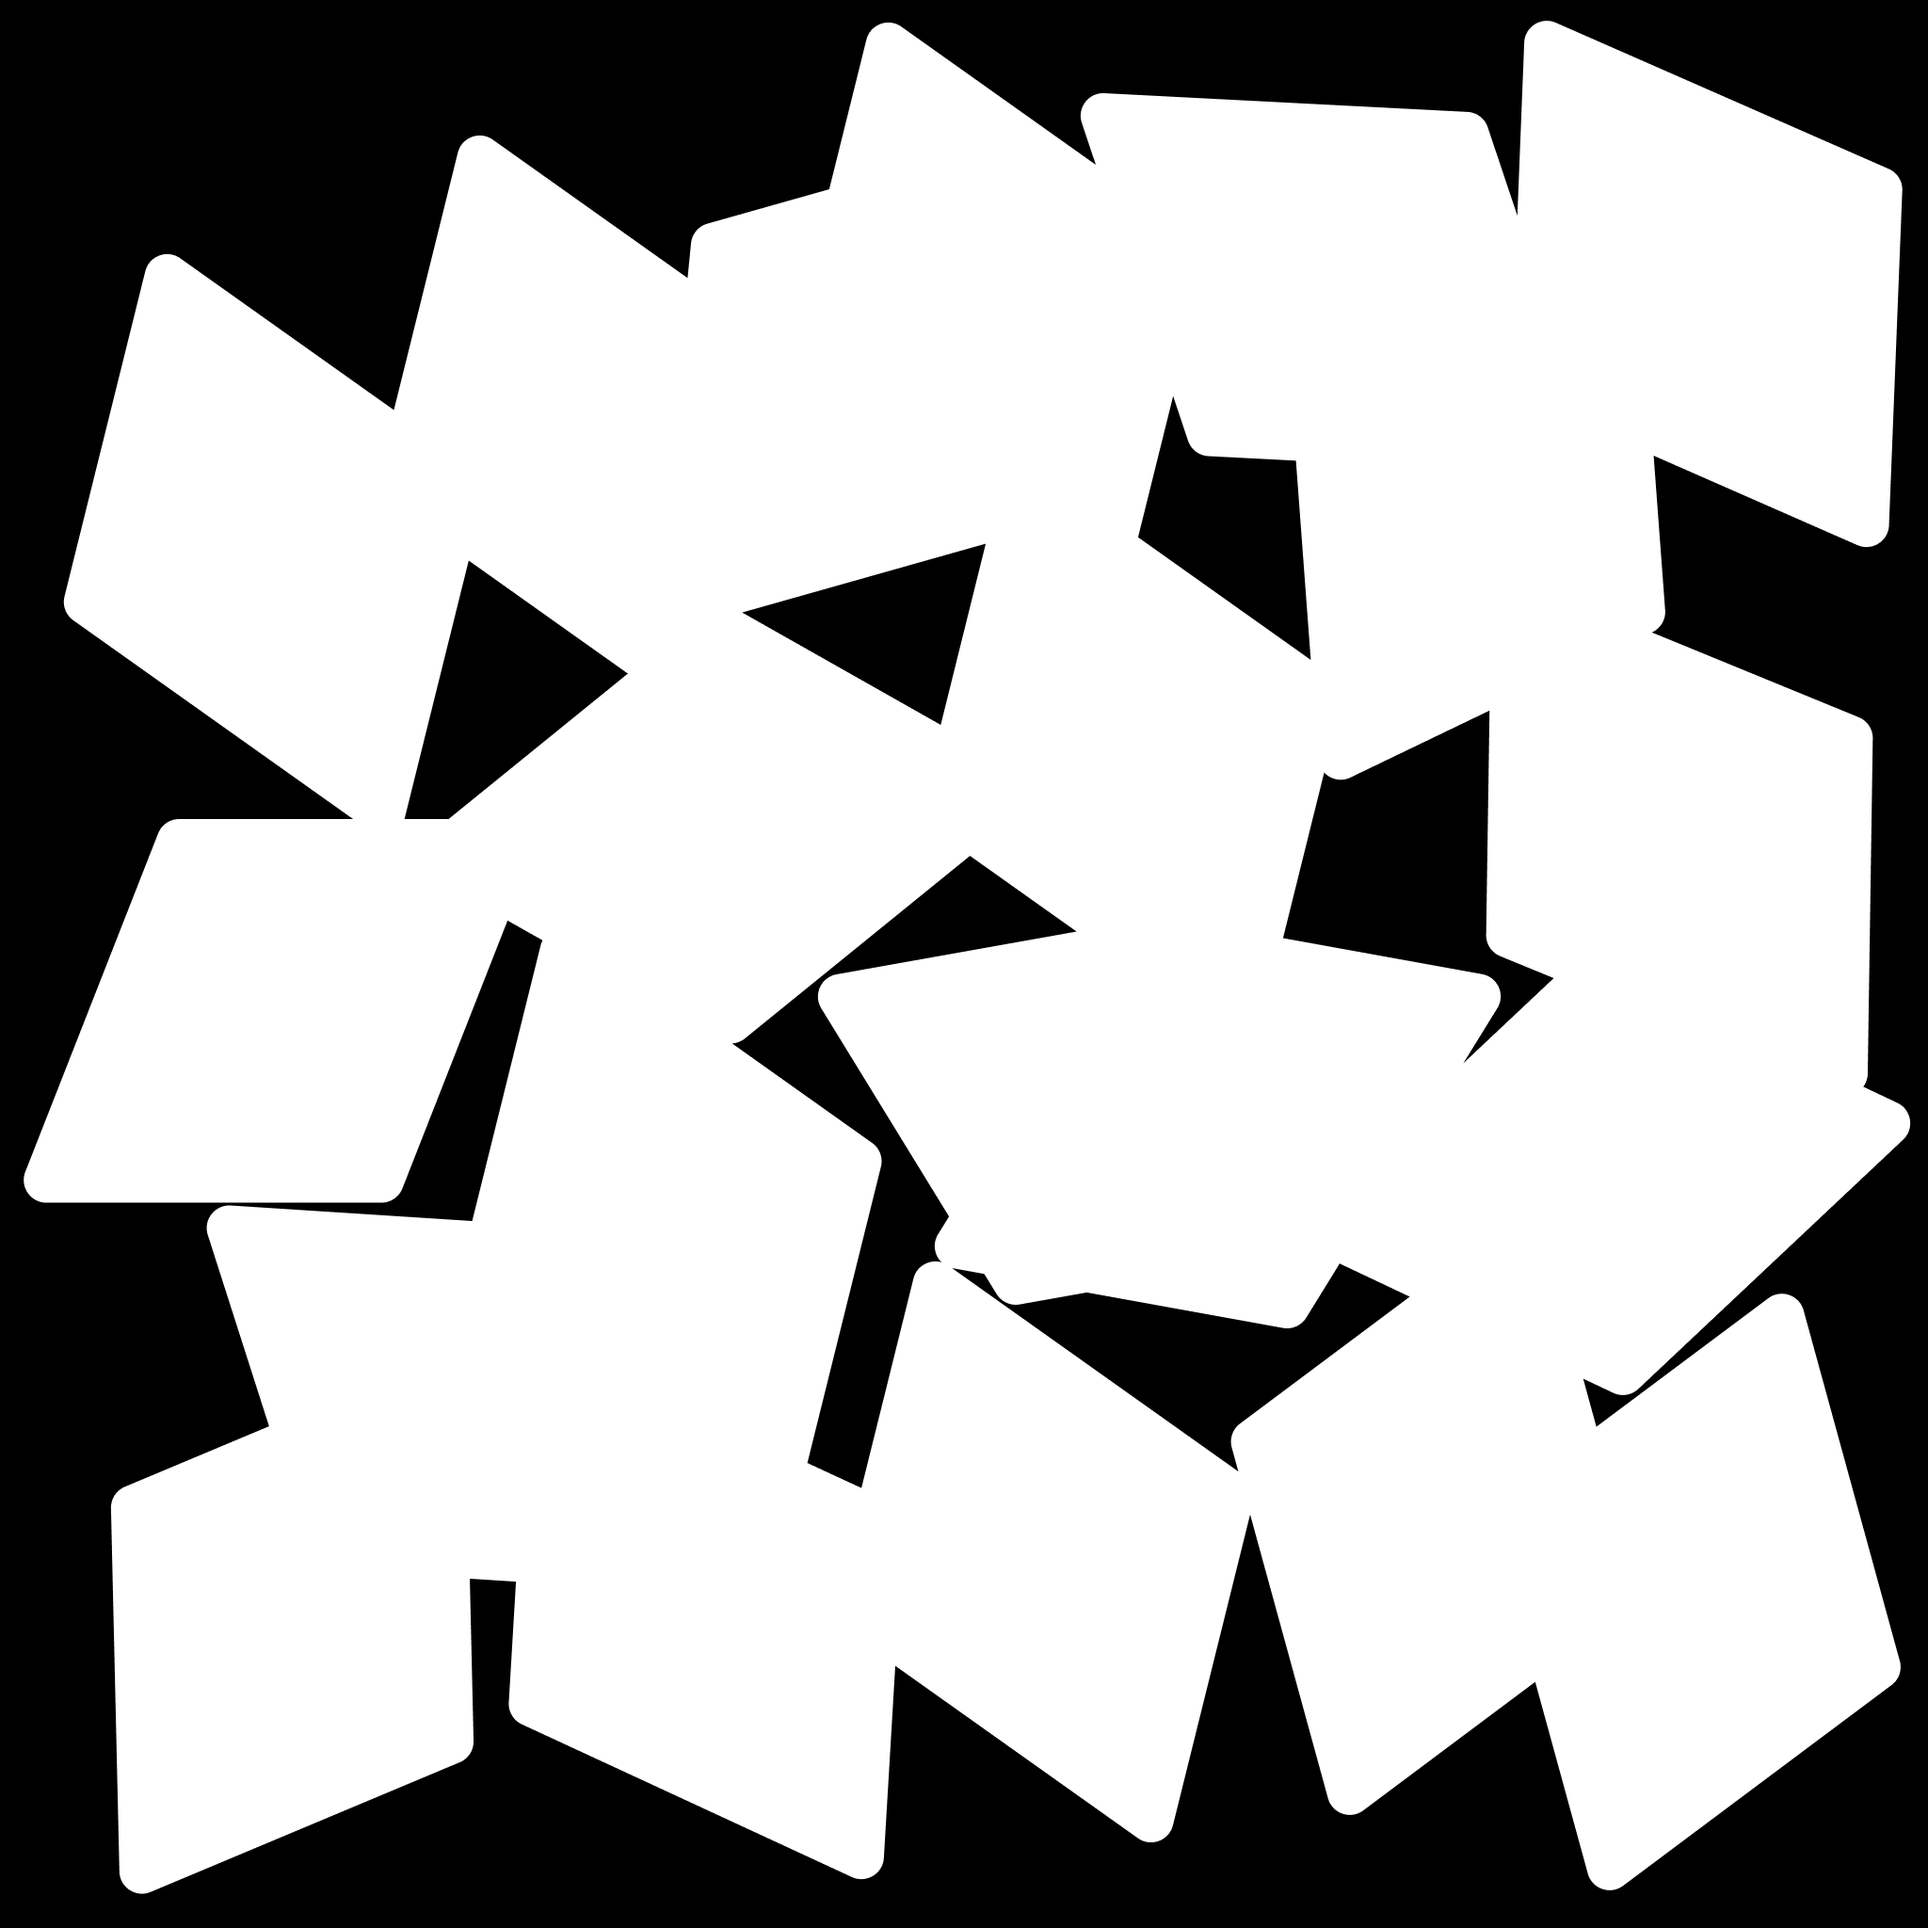
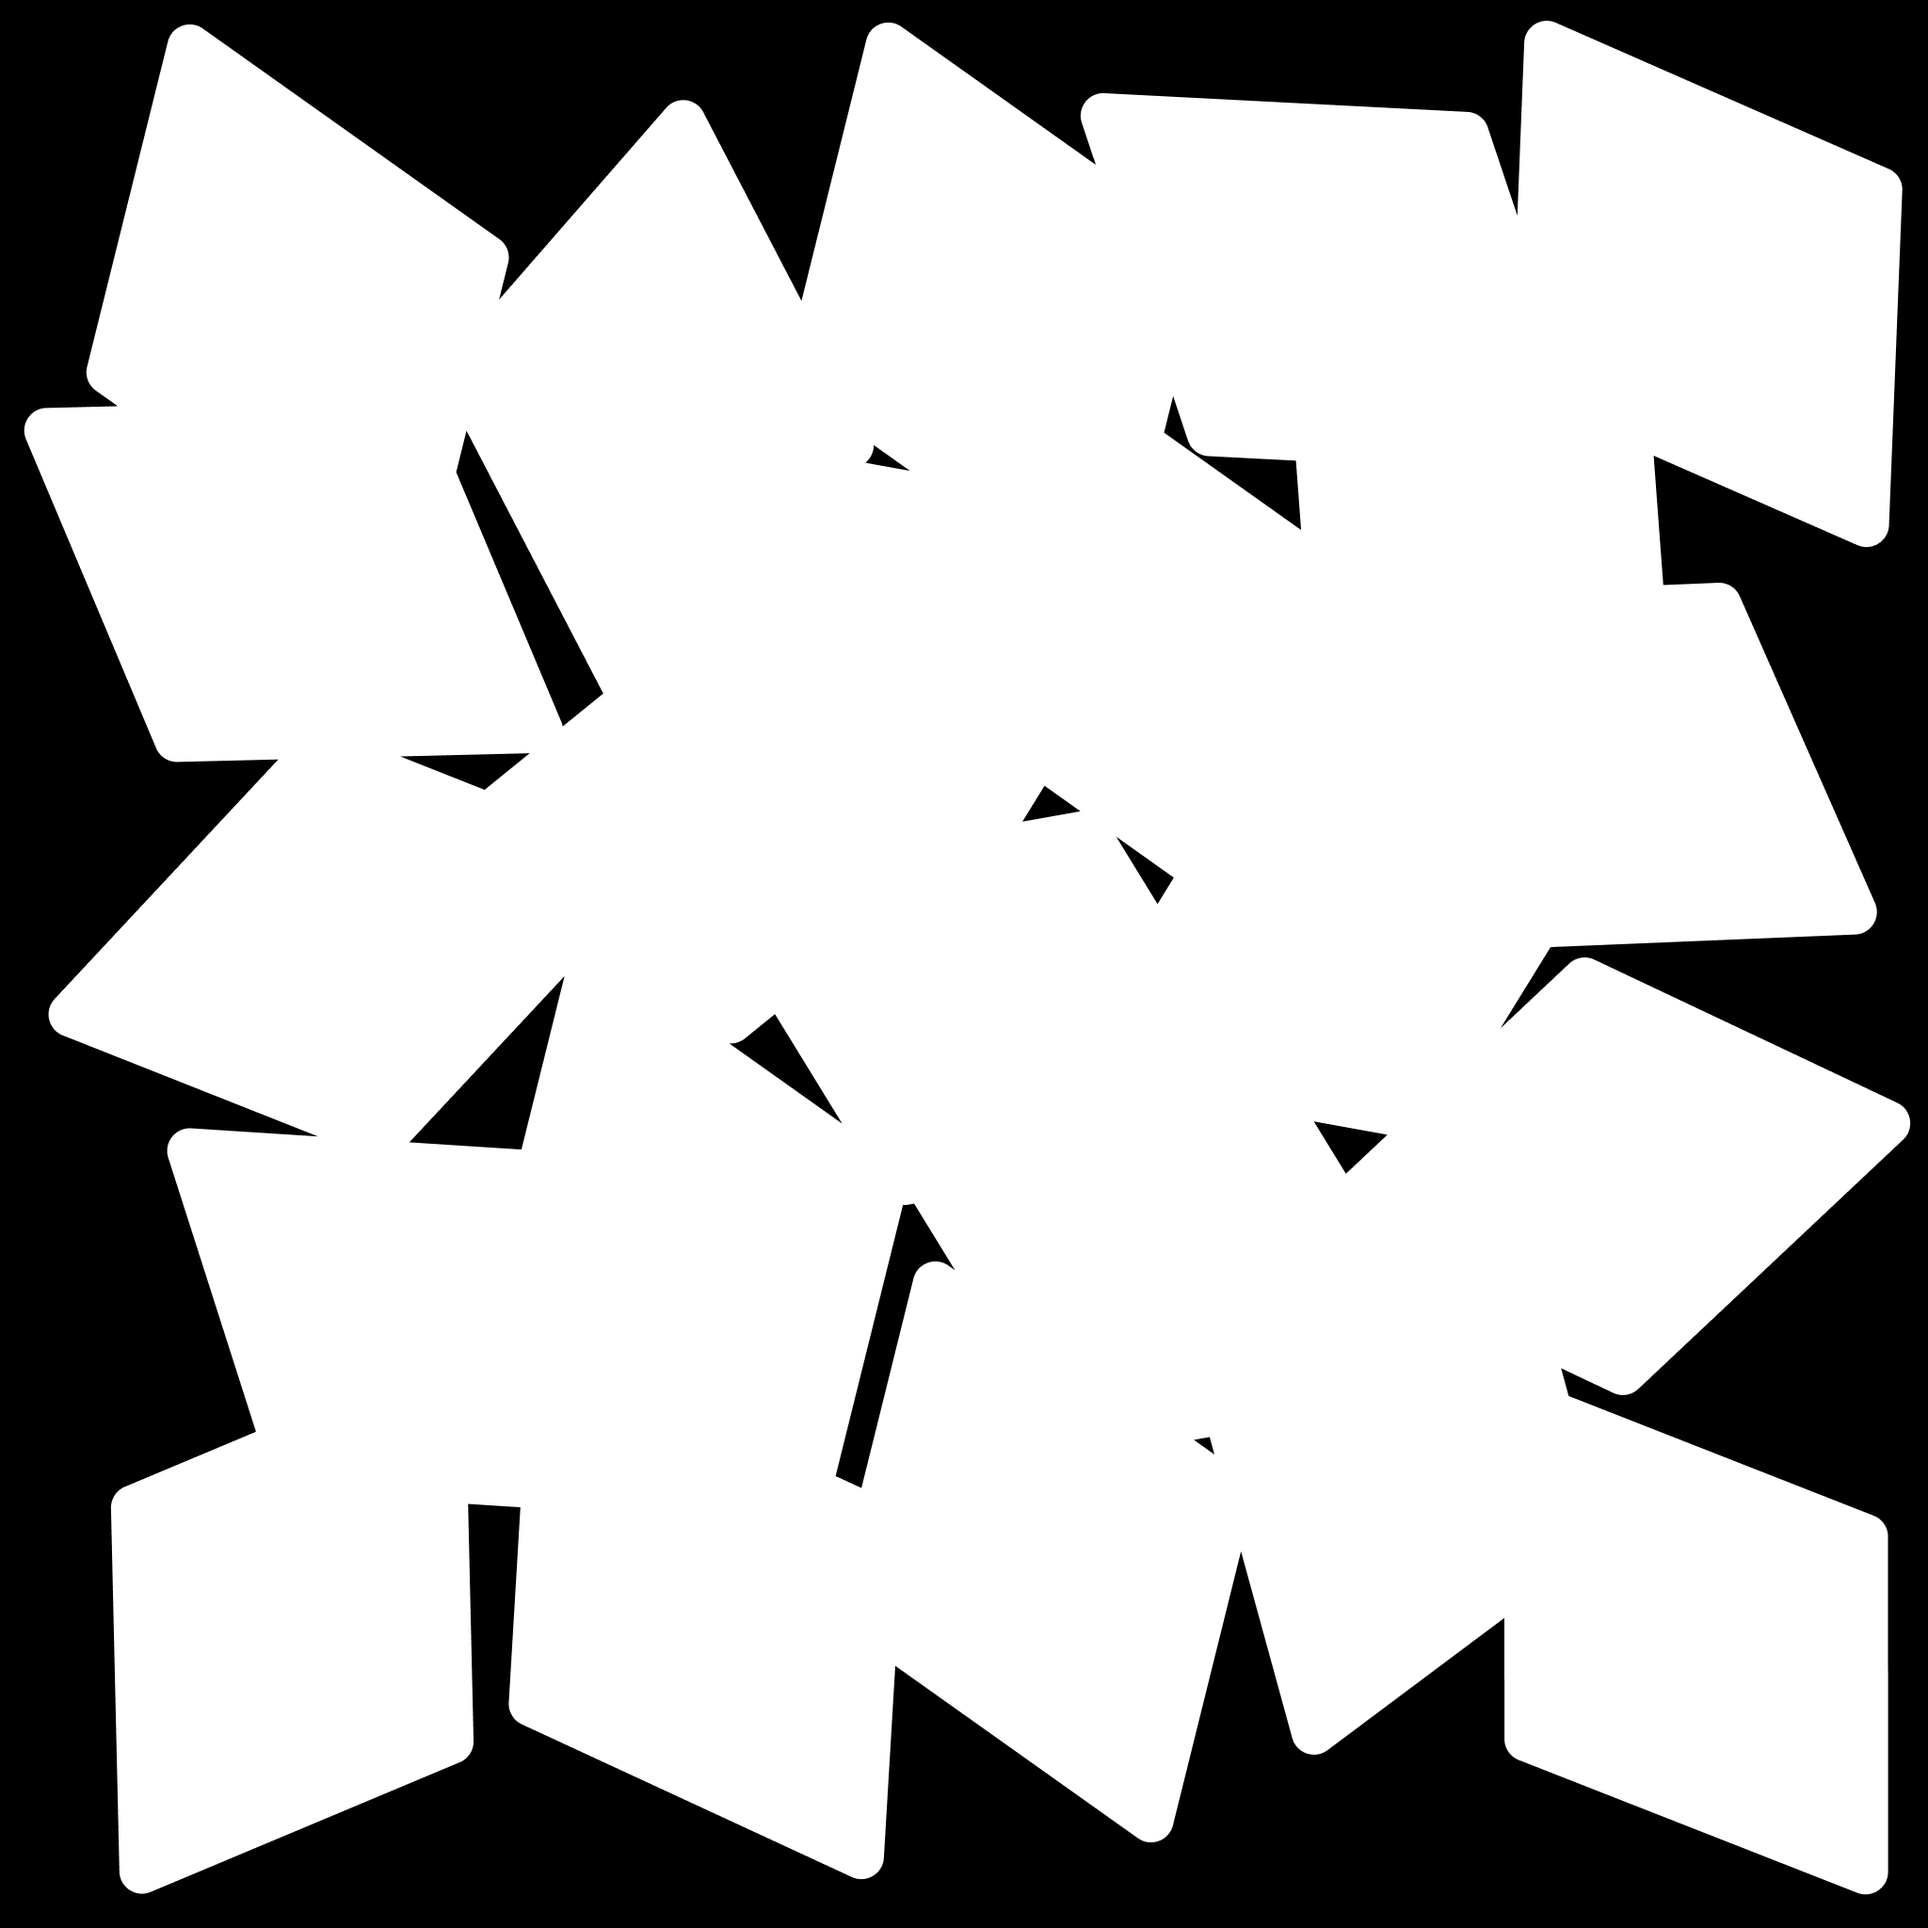
Light: update shadow

diff --git a/src/Light.js b/src/Light.js
@@ -5,13 +5,104 @@ class Light {
   constructor() {
     this.experience = new Experience();
     this.scene = this.experience.scene;
+    this.debug = this.experience.debug;
+
+    this.sunDirection = new THREE.Vector3(-0.7, 0.2, 0).normalize();
+    this.sunDistance = 50;
+    this.progress = 0;
+    this.timeOfDay = 0;
+    this.dayLength = 6000;
+
+    this.debugConfig = {
+      sunColor: "#ecf7fd",
+      sunIntensity: 1,
+      ambientColor: "#fff",
+      ambientIntensity: 2,
+    };
 
     this.init();
   }
 
+  _registerDebugger() {
+    if (!this.debug.active) return;
+    const f = this.debug.pane.addFolder({ title: "light", expanded: true });
+
+    const ambientF = f.addFolder({ title: "ambient" });
+    ambientF.addBinding(this.debugConfig, "ambientColor").on("change", () => {
+      this.ambient.color.set(this.debugConfig.ambientColor);
+    });
+    ambientF.addBinding(this.ambient, "intensity", {
+      min: 1,
+      max: 100,
+      step: 0.5,
+    });
+
+    const sunF = f.addFolder({ title: "sun" });
+    sunF.addBinding(this.debugConfig, "sunColor").on("change", () => {
+      this.sun.color.set(this.debugConfig.sunColor);
+    });
+    sunF.addBinding(this.sun, "intensity", { min: 1, max: 100, step: 0.5 });
+    sunF
+      .addBinding(this.sunDirection, "x", { min: -1, max: 1, step: 0.1 })
+      .on("change", () => this._moveSun());
+    sunF
+      .addBinding(this.sunDirection, "y", { min: -1, max: 1, step: 0.1 })
+      .on("change", () => this._moveSun());
+    sunF
+      .addBinding(this.sunDirection, "z", { min: -1, max: 1, step: 0.1 })
+      .on("change", () => this._moveSun());
+  }
+
+  _moveSun() {
+    this.sun.position.copy(this.sunDirection);
+  }
+
   init() {
-    this.ambient = new THREE.AmbientLight(0xffffff, 2);
+    this._registerAmbientLight();
+    this._registerSunLight();
+    this._registerDebugger();
+  }
+
+  _registerSunLight() {
+    this.sun = new THREE.DirectionalLight(
+      this.debugConfig.sunColor,
+      this.debugConfig.sunIntensity
+    );
+
+    this.sun.shadow.camera.top = 50;
+    this.sun.shadow.camera.bottom = -50;
+    this.sun.shadow.camera.right = 50;
+    this.sun.shadow.camera.left = -50;
+    this.sun.shadow.camera.far = 50;
+    this.sun.shadow.camera.near = -50;
+    this.sun.castShadow = true;
+
+    this._moveSun();
+
+    this.scene.add(this.sun);
+
+    this.sunHelper = new THREE.DirectionalLightHelper(this.sun);
+    // this.scene.add(this.sunHelper);
+
+    this.shadowhelper = new THREE.CameraHelper(this.sun.shadow.camera);
+    // this.scene.add(this.shadowhelper);
+  }
+
+  _registerAmbientLight() {
+    this.ambient = new THREE.AmbientLight(
+      this.debugConfig.ambientColor,
+      this.debugConfig.ambientIntensity
+    );
     this.scene.add(this.ambient);
+  }
+
+  update() {
+    // this.timeOfDay += 1;
+    // this.progress = (this.timeOfDay % this.dayLength) / this.dayLength;
+    // const sunAngle = this.progress * Math.PI * 2;
+    // this.sunDirection.x = Math.cos(sunAngle);
+    // this.sunDirection.y = Math.sin(sunAngle);
+    // this._moveSun();
   }
 }
 

diff --git a/src/World/Bushes.js b/src/World/Bushes.js
@@ -14,19 +14,35 @@ class Bushes {
     this.experience = new Experience();
     this.scene = this.experience.scene;
     this.resources = this.experience.resources.resources;
+    this.debug = this.experience.debug;
     this.time = this.experience.time;
+
+    this.debugConfig = {
+      // color: "#fff",
+      color: "#20c57e",
+    };
 
     this.init();
   }
 
   init() {
+    this._registerDebugger();
     this._addBushes();
     this._setBushesPosition();
   }
 
+  _registerDebugger() {
+    if (!this.debug.active) return;
+
+    const f = this.debug.pane.addFolder({ title: "bushes", expanded: true });
+    f.addBinding(this.debugConfig, "color").on("change", () => {
+      this.uniforms.uBushesColor.value.set(this.debugConfig.color);
+    });
+  }
+
   _createGeometry() {
     const geometries = [];
-    const LEAVES_COUNT = 50;
+    const LEAVES_COUNT = 80;
     this.normalArray = [];
 
     for (let i = 0; i < LEAVES_COUNT; i++) {
@@ -51,6 +67,7 @@ class Bushes {
     }
 
     this.geometry = mergeGeometries(geometries);
+    this.geometry.translate(0, 0.8, 0);
     this.geometry.setAttribute(
       "normal",
       new THREE.BufferAttribute(new Float32Array(this.normalArray), 3)
@@ -80,18 +97,19 @@ class Bushes {
 
     this.uniforms = {
       uTime: new THREE.Uniform(0),
+      uLeavesTexture: new THREE.Uniform(this.resources.leaves_alpha_texture),
+      uBushesColor: new THREE.Uniform(new THREE.Color(this.debugConfig.color)),
     };
 
     this.material = new CustomShaderMaterial({
-      baseMaterial: THREE.MeshStandardMaterial,
-      color: 0xffffff,
       uniforms: this.uniforms,
-      alphaMap: this.resources.leaves_alpha_texture,
       transparent: true,
-      side: THREE.DoubleSide,
       depthWrite: false,
+      side: THREE.DoubleSide,
       vertexShader,
       fragmentShader,
+      baseMaterial: THREE.MeshStandardMaterial,
+      // alphaMap: this.resources.leaves_alpha_texture,
     });
 
     this.mesh = new THREE.InstancedMesh(
@@ -117,9 +135,11 @@ class Bushes {
       z += z > 0 ? -1 * offset : offset;
       dummy.position.x = x;
       dummy.position.z = z;
-      dummy.position.y = 0.8;
+      dummy.position.y = 0;
 
-      dummy.scale.setScalar(0.5 + Math.random());
+      dummy.rotateY(Math.random() * Math.PI * 0.5);
+
+      // dummy.scale.setScalar(0.5 + Math.random());
 
       dummy.updateWorldMatrix();
 

diff --git a/src/World/Floor.js b/src/World/Floor.js
@@ -15,7 +15,7 @@ export default class Floor {
     this.subdivision = this.width * 4;
 
     this.debugConfig = {
-      color: "#20c57e",
+      color: "#1a9c64",
     };
 
     this.init();
@@ -26,6 +26,7 @@ export default class Floor {
     if (this.debug.active) {
       this.debugFolder = this.debug.pane.addFolder({
         title: "Floor",
+        expanded: false,
       });
 
       this.debugFolder
@@ -48,10 +49,6 @@ export default class Floor {
       color: this.debugConfig.color,
     });
     this.material = material;
-
-    // this.material.onBeforeCompile = (shader) => {
-    //   console.log(shader.fragmentShader);
-    // };
   }
 
   initMesh() {

diff --git a/src/World/Sky.js b/src/World/Sky.js
@@ -19,7 +19,7 @@ class Sky {
 
     this.progress = 0;
     this.timeOfDay = 0;
-    this.dayLength = 3000;
+    this.dayLength = 6000;
 
     this.init();
     this._registerDebugger();
@@ -28,7 +28,7 @@ class Sky {
   _registerDebugger() {
     if (!this.debug.active) return;
 
-    const f = this.debug.pane.addFolder({ title: "sky", expanded: true });
+    const f = this.debug.pane.addFolder({ title: "sky", expanded: false });
     f.addBinding(this.debugConfig, "dayHighColor").on("change", () => {
       this.uniforms.uDayHighColor.value.set(this.debugConfig.dayHighColor);
     });

diff --git a/src/World/World.js b/src/World/World.js
@@ -18,12 +18,12 @@ export default class World {
   }
 
   init() {
-    this.flower = new Flower(this.resources.resources.grass_color_texture);
     this.floor = new Floor();
-    this.sky = new Sky();
-    this.tree = new Tree();
-    this.statue = new Statue();
     this.bushes = new Bushes();
+    // this.flower = new Flower(this.resources.resources.grass_color_texture);
+    // this.sky = new Sky();
+    // this.tree = new Tree();
+    // this.statue = new Statue();
 
     // this.grass = new Grass();
   }

diff --git a/src/Renderer.js b/src/Renderer.js
@@ -20,6 +20,7 @@ export default class Renderer {
     this.instance.setPixelRatio(Math.min(window.devicePixelRatio, 2));
     this.instance.setSize(this.size.width, this.size.height);
     this.instance.render(this.scene, this.camera.instance);
+    this.instance.shadowMap.enabled = true;
   }
 
   update() {

diff --git a/src/Experience.js b/src/Experience.js
@@ -46,6 +46,7 @@ export default class Experience {
   }
 
   update() {
+    this.light.update();
     this.world.update();
     this.camera.update();
     this.renderer.update();
